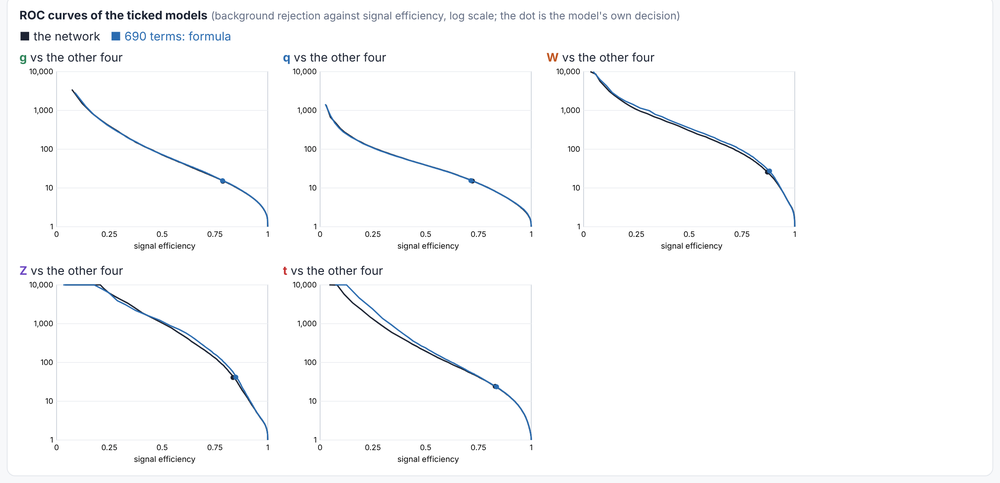
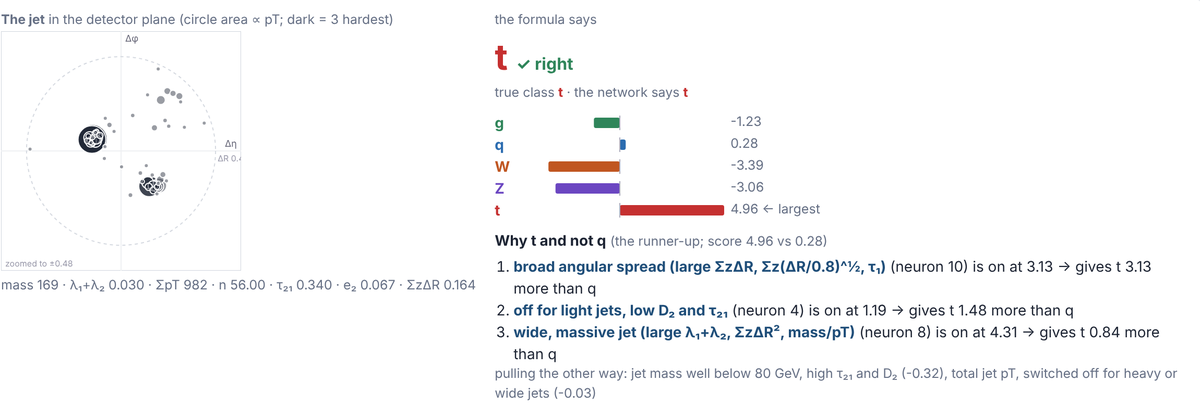
Monogram nav, tighter face, per-jet figure, mobile figure sizing
Claude-Session: https://claude.ai/code/session_01QQRYqYGi5C8uuhsGHPo3jm

diff --git a/assets/style.css b/assets/style.css
@@ -51,7 +51,10 @@ section { padding: 36px 0; }
 .nav .wrap { display: flex; align-items: center; justify-content: space-between; height: 56px; gap: 12px; }
 .nav .navright { display: flex; align-items: center; gap: 8px; }
 .nav ul { margin-left: auto; margin-right: 16px; }
-.nav .brand { font-weight: 700; color: var(--fg); }
+.nav .brand { display: inline-flex; align-items: center; text-decoration: none; }
+.nav .mono { display: inline-flex; align-items: center; justify-content: center; width: 34px; height: 34px; border-radius: 50%;
+  background: var(--accent); color: #fff; font-weight: 800; font-size: .82rem; letter-spacing: .02em; transition: transform .15s; }
+.nav .brand:hover .mono { transform: scale(1.06); }
 .nav ul { list-style: none; display: flex; gap: 18px; margin: 0; padding: 0; overflow-x: auto; white-space: nowrap; }
 .nav li a { color: var(--fg-muted); font-size: .95rem; }
 .nav li a:hover { color: var(--accent-ink); text-decoration: none; }
@@ -115,7 +118,7 @@ section { padding: 36px 0; }
 .paper .authors b { color: var(--fg); }
 .paper .desc { margin-bottom: 10px; }
 .paper .links .btn { padding: 4px 10px; font-size: .85rem; box-shadow: none; }
-@media (max-width: 720px) { .paper { grid-template-columns: 1fr; gap: 12px; } .paper .fig { aspect-ratio: 16/9; } }
+@media (max-width: 720px) { .paper { grid-template-columns: 1fr; gap: 12px; } .paper .fig, .paper .fig.contain { aspect-ratio: auto; height: auto; max-height: 240px; width: auto; max-width: 100%; } .card img { aspect-ratio: auto; height: auto; } .tag { font-size: .72rem; } }
 
 /* projects */
 .grid { display: grid; grid-template-columns: repeat(auto-fit, minmax(280px, 1fr)); gap: 16px; }

diff --git a/index.html b/index.html
@@ -18,7 +18,7 @@
 
 <nav class="nav">
   <div class="wrap">
-    <a class="brand" href="#top">Aaron Wang</a>
+    <a class="brand" href="#top" aria-label="Home"><span class="mono">AW</span></a>
     <ul id="navlinks">
       <li><a href="#news">News</a></li>
       <li><a href="#research">Research</a></li>
